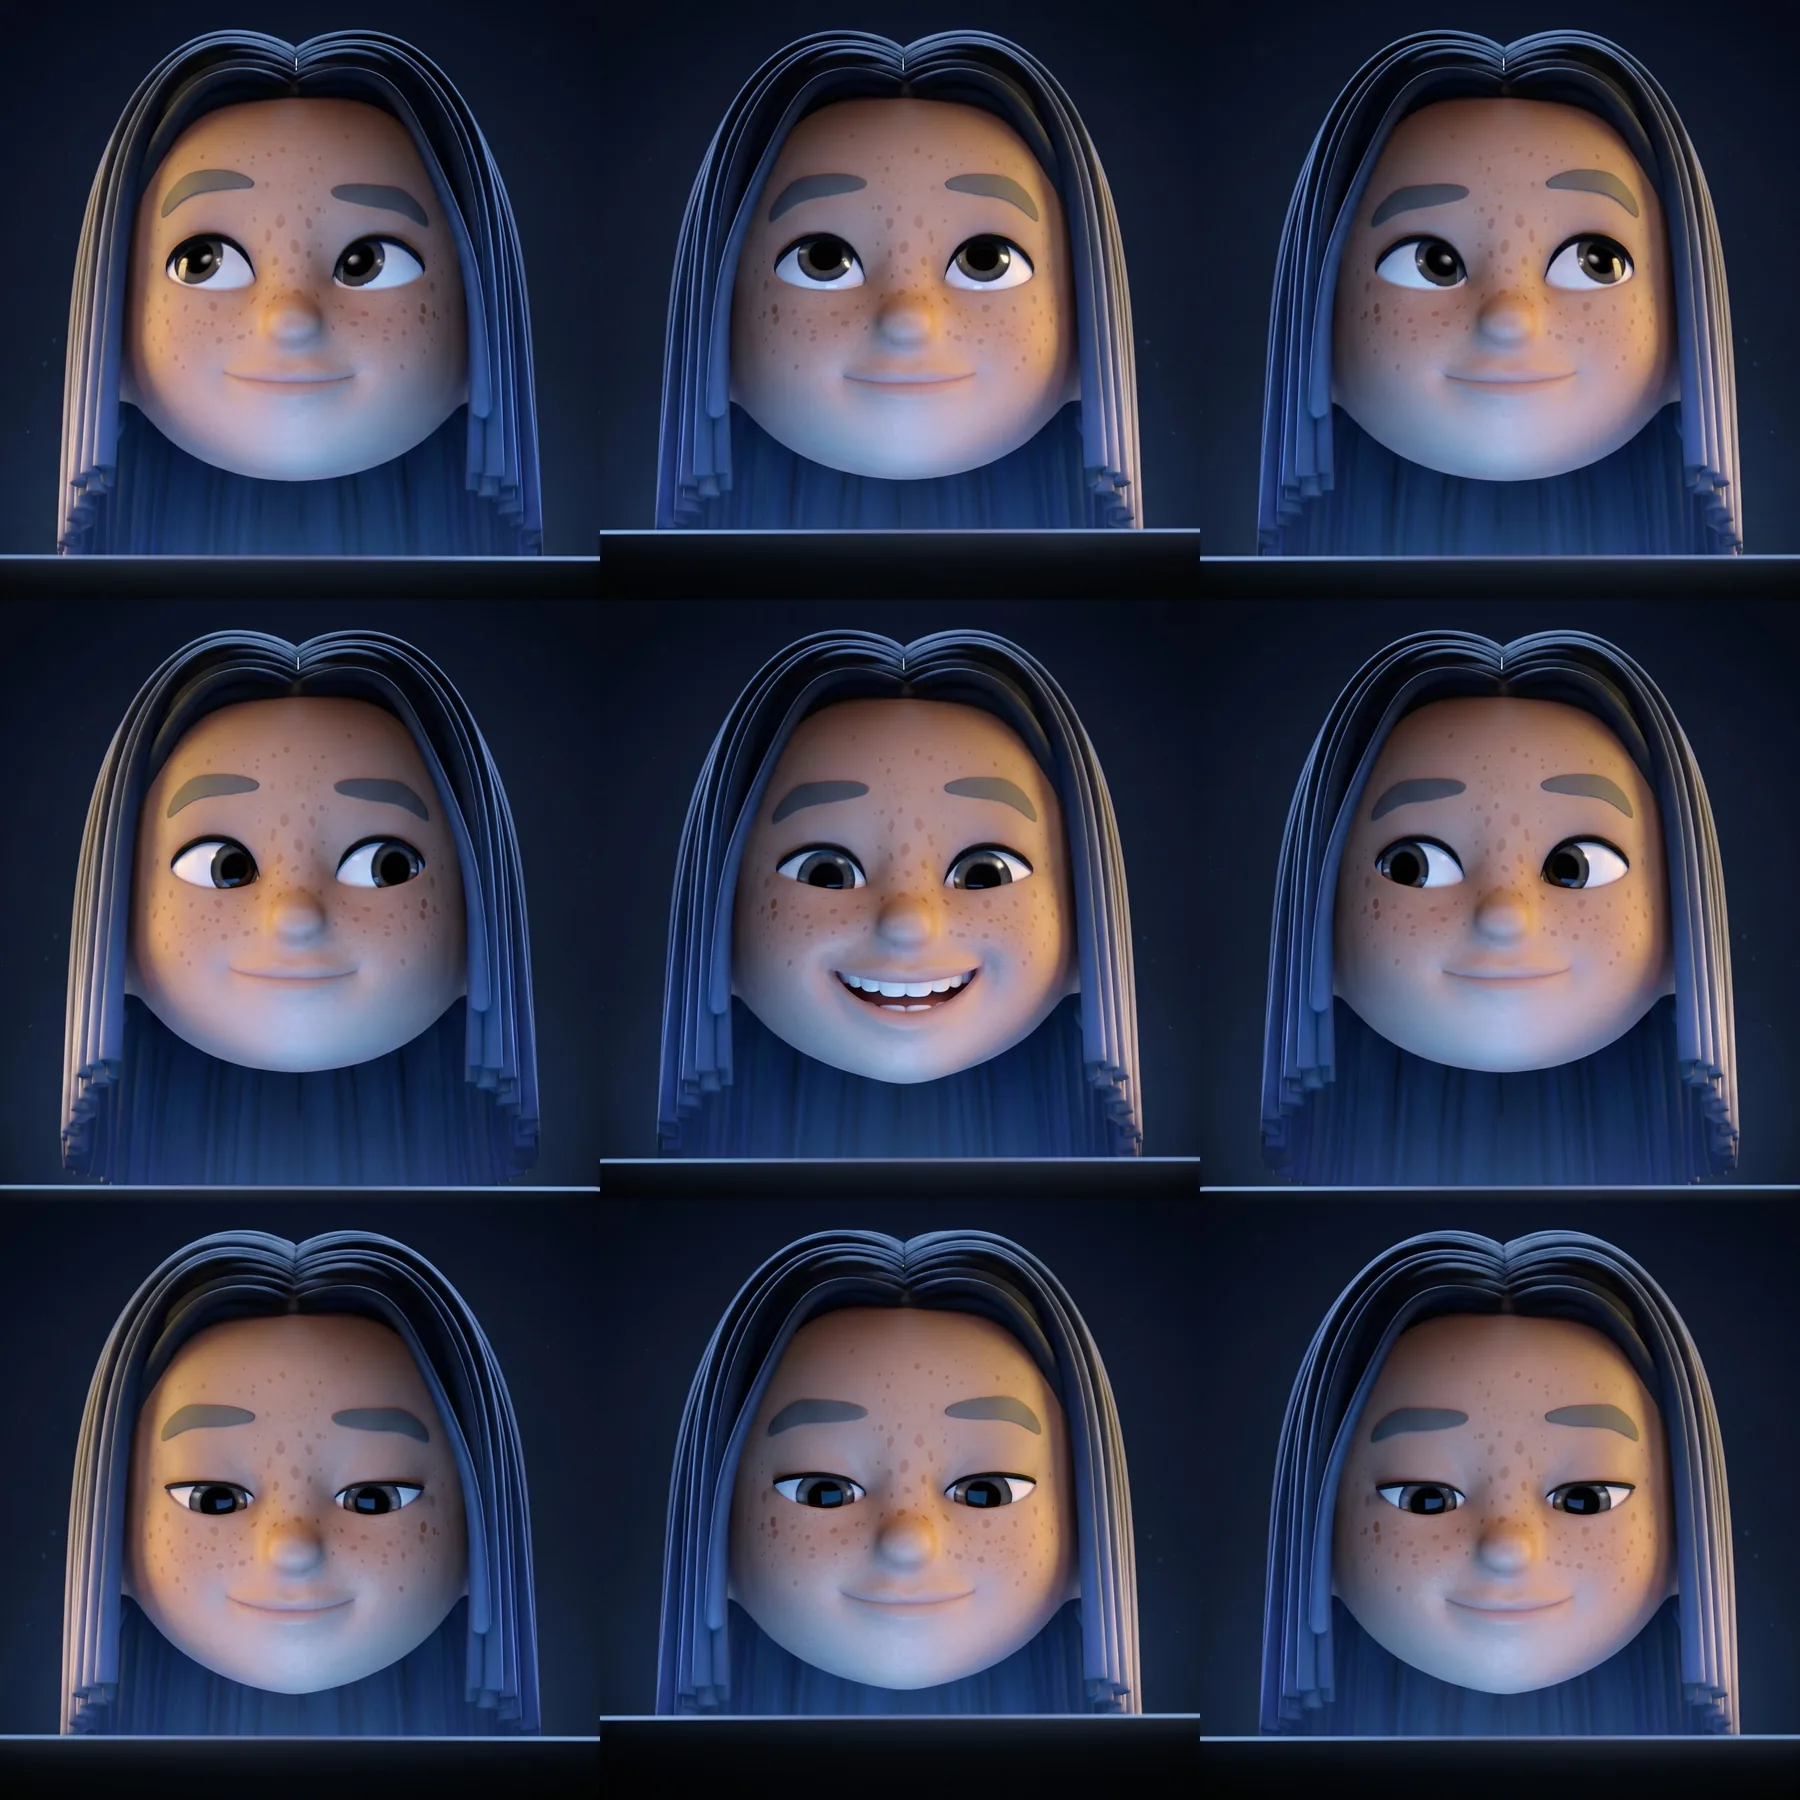
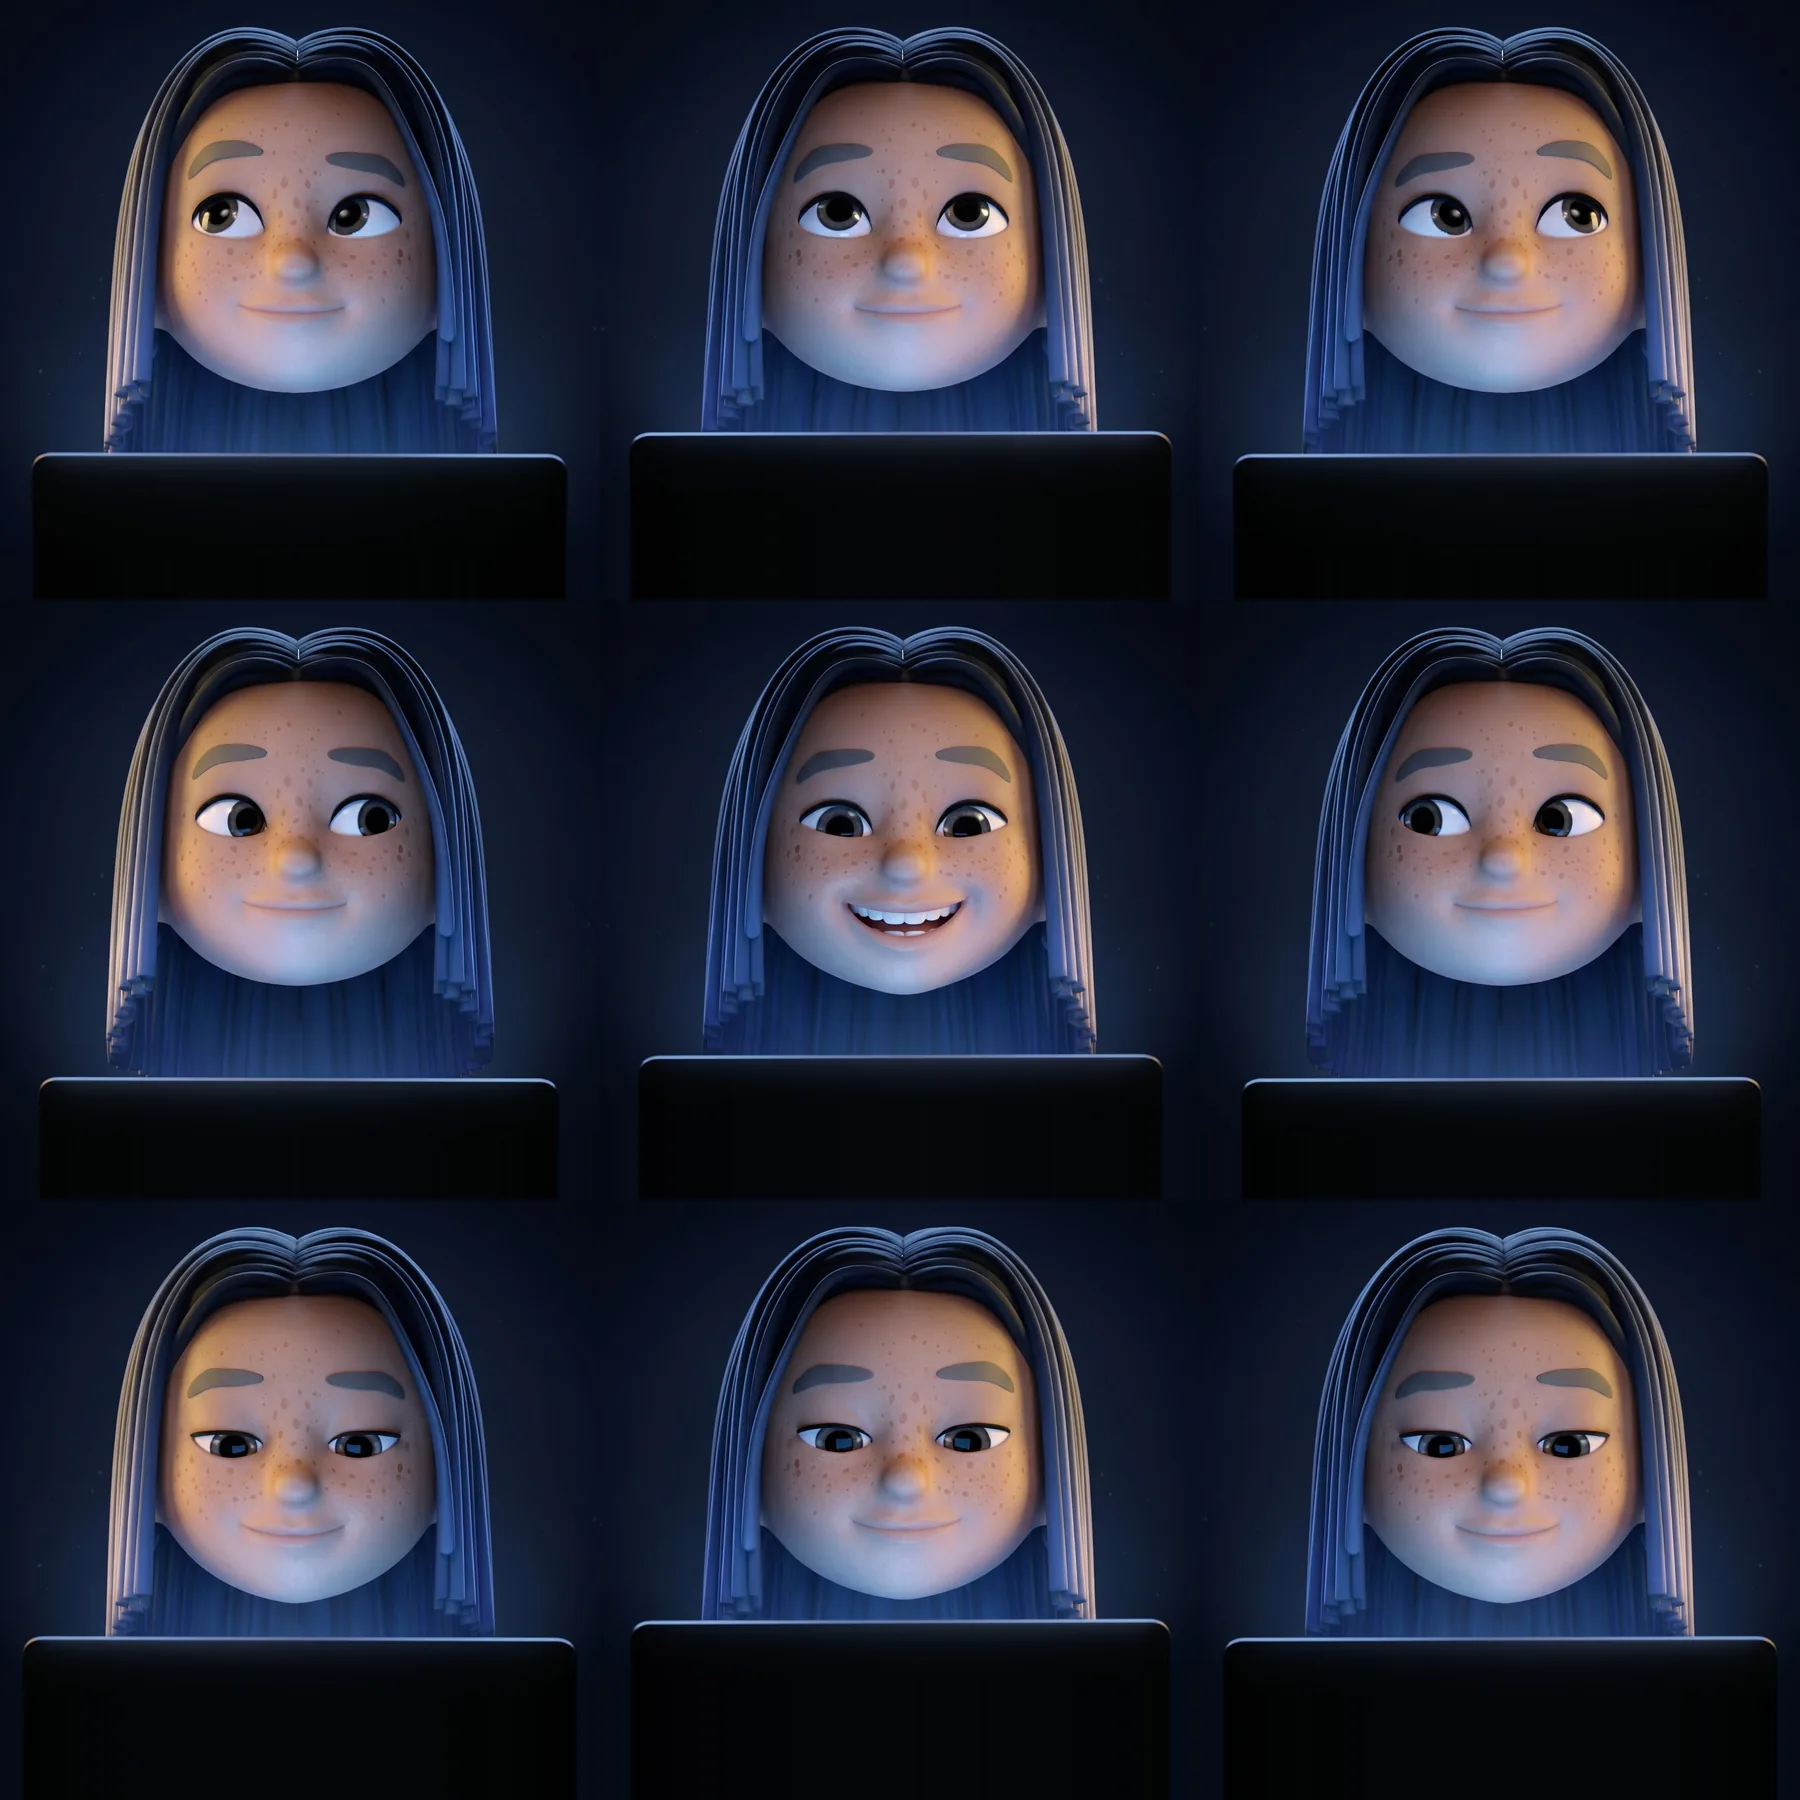
Asme landing: character with laptop, hard-cut cursor following, equal face size, services section removed

diff --git a/designs/asme-landing.html b/designs/asme-landing.html
@@ -123,71 +123,37 @@
         src="https://d8j0ntlcm91z4.cloudfront.net/user_38xzZboKViGWJOttwIXH07lWA1P/hf_20260405_074625_a81f018a-956b-43fb-9aee-4d1508e30e6a.mp4" />;
     }
 
-    // The head follows the cursor like a real one: the eyes lead on a fast spring, the head trails on a slower one
-    // and overshoots a touch; the nine turns of the 3x3 sheet are cross-faded by position, never snapped.
+    // The head follows the cursor. Nine head turns on a 3x3 sheet; the one nearest the pointer is shown outright,
+    // like cutting between frames of a film (no easing or blending). Clicking pulls a face from the second sheet.
     function Mascot() {
-      const outer = useRef(null), head = useRef(null), rx = useRef(null), layers = useRef([]);
+      const box = useRef(null);
+      const [cell, setCell] = useState(4);
+      const [react, setReact] = useState(-1);
+      const timer = useRef(0);
       useEffect(() => {
-        const reduced = matchMedia('(prefers-reduced-motion: reduce)').matches;
-        const clamp = (v, a = -1, b = 1) => Math.min(b, Math.max(a, v));
-        const pos = (i) => `${(i % 3) * 50}% ${Math.floor(i / 3) * 50}%`;
-        let tx = 0, ty = 0, ex = 0, ey = 0, evx = 0, evy = 0, hx = 0, hy = 0, hvx = 0, hvy = 0;
-        let raf = 0, last = performance.now(), idleSince = last, nextGlance = last + 2500, gx = 0, gy = 0, rxTimer = 0;
-        const onMove = (e) => {
-          const r = outer.current.getBoundingClientRect();
-          tx = Math.tanh((e.clientX - (r.left + r.width / 2)) / (innerWidth * 0.28)) * 1.05;
-          ty = Math.tanh((e.clientY - (r.top + r.height * 0.4)) / (innerHeight * 0.34)) * 1.05;
-          tx = clamp(tx); ty = clamp(ty); idleSince = performance.now(); gx = gy = 0;
+        const move = (e) => {
+          const r = box.current.getBoundingClientRect();
+          const nx = (e.clientX - (r.left + r.width / 2)) / (innerWidth * 0.5);
+          const ny = (e.clientY - (r.top + r.height * 0.35)) / (innerHeight * 0.5);
+          const col = nx < -0.14 ? 0 : nx > 0.14 ? 2 : 1;
+          const row = ny < -0.2 ? 0 : ny > 0.2 ? 2 : 1;
+          setCell(row * 3 + col);
         };
-        const onLeave = () => { tx = ty = 0; };
-        const spring = (x, v, target, k, c, dt) => { v += ((target - x) * k - v * c) * dt; return [x + v * dt, v]; };
-        const frame = (now) => {
-          raf = requestAnimationFrame(frame);
-          const dt = Math.min(0.05, (now - last) / 1000); last = now;
-          if (now - idleSince > 2600 && now > nextGlance) {      // when nobody is moving, she glances about a little
-            gx = (Math.random() - 0.5) * 0.9; gy = (Math.random() - 0.5) * 0.5; nextGlance = now + 1600 + Math.random() * 2400;
-          }
-          const aimX = clamp(tx + gx), aimY = clamp(ty + gy);
-          if (reduced) { ex = aimX; ey = aimY; hx = aimX * 0.8; hy = aimY * 0.8; }
-          else {
-            [ex, evx] = spring(ex, evx, aimX, 190, 21, dt);      // eyes: quick, settled
-            [ey, evy] = spring(ey, evy, aimY, 190, 21, dt);
-            [hx, hvx] = spring(hx, hvx, aimX * 0.85, 46, 8.5, dt); // head: slower, a little overshoot
-            [hy, hvy] = spring(hy, hvy, aimY * 0.85, 46, 8.5, dt);
-          }
-          const u = clamp(ex + 1, 0, 2), v = clamp(ey + 1, 0, 2);
-          const c0 = Math.min(1, Math.floor(u)), r0 = Math.min(1, Math.floor(v)), fu = u - c0, fv = v - r0;
-          const cells = [[r0 * 3 + c0, (1 - fu) * (1 - fv)], [r0 * 3 + c0 + 1, fu * (1 - fv)], [(r0 + 1) * 3 + c0, (1 - fu) * fv], [(r0 + 1) * 3 + c0 + 1, fu * fv]].sort((a, b) => b[1] - a[1]);
-          let acc = 0;
-          cells.forEach(([i, w], k) => {
-            const el = layers.current[k]; acc += w;
-            el.style.backgroundPosition = pos(i);
-            el.style.opacity = k === 0 ? 1 : (acc > 0 ? (w / acc).toFixed(3) : 0);
-          });
-          const t = now / 1000, breath = reduced ? 0 : Math.sin(t * 1.7);
-          head.current.style.transform = `perspective(900px) translate3d(${(hx * 16).toFixed(2)}px, ${(hy * 9 + breath * 2.2).toFixed(2)}px, 0) rotateY(${(hx * 8).toFixed(2)}deg) rotateX(${(-hy * 5).toFixed(2)}deg) rotateZ(${(hx * 1.6).toFixed(2)}deg) scale(${(1 + breath * 0.006).toFixed(4)})`;
-        };
-        raf = requestAnimationFrame(frame);
-        addEventListener('pointermove', onMove); addEventListener('pointerdown', onMove);
-        document.documentElement.addEventListener('mouseleave', onLeave);
-        const poke = () => {
-          const el = rx.current; el.style.backgroundPosition = pos(Math.floor(Math.random() * 9)); el.style.opacity = 1;
-          clearTimeout(rxTimer); rxTimer = setTimeout(() => { el.style.opacity = 0; }, 1300);
-        };
-        outer.current.addEventListener('click', poke);
-        const o = outer.current;
-        return () => { cancelAnimationFrame(raf); clearTimeout(rxTimer); removeEventListener('pointermove', onMove); removeEventListener('pointerdown', onMove); document.documentElement.removeEventListener('mouseleave', onLeave); o.removeEventListener('click', poke); };
+        const leave = () => setCell(4);
+        addEventListener('pointermove', move); addEventListener('pointerdown', move);
+        document.documentElement.addEventListener('mouseleave', leave);
+        return () => { removeEventListener('pointermove', move); removeEventListener('pointerdown', move); document.documentElement.removeEventListener('mouseleave', leave); };
       }, []);
-      const sheet = (u) => ({ position: 'absolute', inset: 0, backgroundImage: `url(${u})`, backgroundSize: '300% 300%', backgroundRepeat: 'no-repeat' });
+      const poke = () => { setReact(Math.floor(Math.random() * 9)); clearTimeout(timer.current); timer.current = setTimeout(() => setReact(-1), 1300); };
+      const i = react >= 0 ? react : cell;
+      const fade = 'linear-gradient(90deg, transparent, #000 24%, #000 76%, transparent), linear-gradient(180deg, transparent, #000 10%, #000 88%, transparent)';
       return (
-        <div ref={outer} role="img" aria-label="Animated portrait that follows your cursor" className="relative mx-auto shrink-0 cursor-pointer select-none"
-          style={{ width: 'min(86vw, 40vh, 460px)', minWidth: 220, aspectRatio: '1 / 1',
-            WebkitMaskImage: 'radial-gradient(ellipse 50% 50% at 50% 46%, #000 52%, transparent 100%)', maskImage: 'radial-gradient(ellipse 50% 50% at 50% 46%, #000 52%, transparent 100%)' }}>
-          <div ref={head} style={{ position: 'absolute', inset: 0, willChange: 'transform' }}>
-            {[0, 1, 2, 3].map((k) => <div key={k} ref={(el) => (layers.current[k] = el)} style={sheet('assets/asme/mascot-dirs.webp')} />)}
-            <div ref={rx} style={{ ...sheet('assets/asme/mascot-reacts.webp'), opacity: 0, transition: 'opacity .18s ease-out' }} />
-          </div>
-        </div>
+        <div ref={box} onClick={poke} role="img" aria-label="Animated portrait that follows your cursor"
+          className="relative mx-auto shrink-0 cursor-pointer select-none"
+          style={{ width: 'min(84vw, 38vh, 440px)', minWidth: 220, aspectRatio: '1 / 1',
+            backgroundImage: `url(${react >= 0 ? 'assets/asme/mascot-reacts.webp' : 'assets/asme/mascot-dirs.webp'})`, backgroundSize: '300% 300%', backgroundRepeat: 'no-repeat',
+            backgroundPosition: `${(i % 3) * 50}% ${Math.floor(i / 3) * 50}%`,
+            WebkitMaskImage: fade, maskImage: fade, WebkitMaskComposite: 'source-in', maskComposite: 'intersect' }} />
       );
     }
 
@@ -302,47 +268,8 @@
       );
     }
 
-    const SERVICES = [
-      { src: 'https://d8j0ntlcm91z4.cloudfront.net/user_38xzZboKViGWJOttwIXH07lWA1P/hf_20260314_131748_f2ca2a28-fed7-44c8-b9a9-bd9acdd5ec31.mp4', tag: 'Research', title: 'UX Research & Insight', body: 'Interviews, journeys and flows grounded in psychology, so every decision has a reason behind it.' },
-      { src: 'https://d8j0ntlcm91z4.cloudfront.net/user_38xzZboKViGWJOttwIXH07lWA1P/hf_20260324_151826_c7218672-6e92-402c-9e45-f1e0f454bdc4.mp4', tag: 'Craft', title: 'Product & Systems Design', body: 'From first sketch to live product, I care about the details that make interfaces feel effortless.' },
-    ];
-
-    function Services() {
-      return (
-        <section className="bg-black py-28 md:py-40 px-6 overflow-hidden relative">
-          <div className="absolute inset-0 bg-[radial-gradient(ellipse_at_center,_rgba(255,255,255,0.02)_0%,_transparent_60%)]" />
-          <div className="relative max-w-6xl mx-auto">
-            <Reveal y={30} duration={0.7} className="flex items-end justify-between mb-12 md:mb-16">
-              <h2 className="text-3xl md:text-5xl text-white tracking-tight">What I do</h2>
-              <p className="hidden md:block text-white/40 text-sm">My services</p>
-            </Reveal>
-            <div className="grid grid-cols-1 md:grid-cols-2 gap-6 md:gap-8">
-              {SERVICES.map((s, i) => (
-                <Reveal key={s.title} y={50} duration={0.8} delay={i * 0.15}>
-                  <div className="liquid-glass rounded-3xl overflow-hidden group">
-                    <div className="relative aspect-video overflow-hidden">
-                      <Video src={s.src} className="w-full h-full object-cover transition-transform duration-700 group-hover:scale-105" />
-                      <div className="absolute inset-0 bg-gradient-to-t from-black/40 to-transparent" />
-                    </div>
-                    <div className="p-6 md:p-8">
-                      <div className="flex items-center justify-between mb-4">
-                        <span className="uppercase tracking-widest text-white/40 text-xs">{s.tag}</span>
-                        <span className="liquid-glass rounded-full p-2 text-white"><ArrowUpRight size={16} /></span>
-                      </div>
-                      <h3 className="text-white text-xl md:text-2xl mb-3 tracking-tight">{s.title}</h3>
-                      <p className="text-white/50 text-sm leading-relaxed">{s.body}</p>
-                    </div>
-                  </div>
-                </Reveal>
-              ))}
-            </div>
-          </div>
-        </section>
-      );
-    }
-
     ReactDOM.createRoot(document.getElementById('root')).render(
-      <div className="bg-black"><Hero /><About /><Playground /><Philosophy /><Services /></div>
+      <div className="bg-black"><Hero /><About /><Playground /><Philosophy /></div>
     );
   </script>
   <script data-embed-hook>if (/[?&]embed\b/.test(location.search)) document.documentElement.classList.add("embed")</script>
